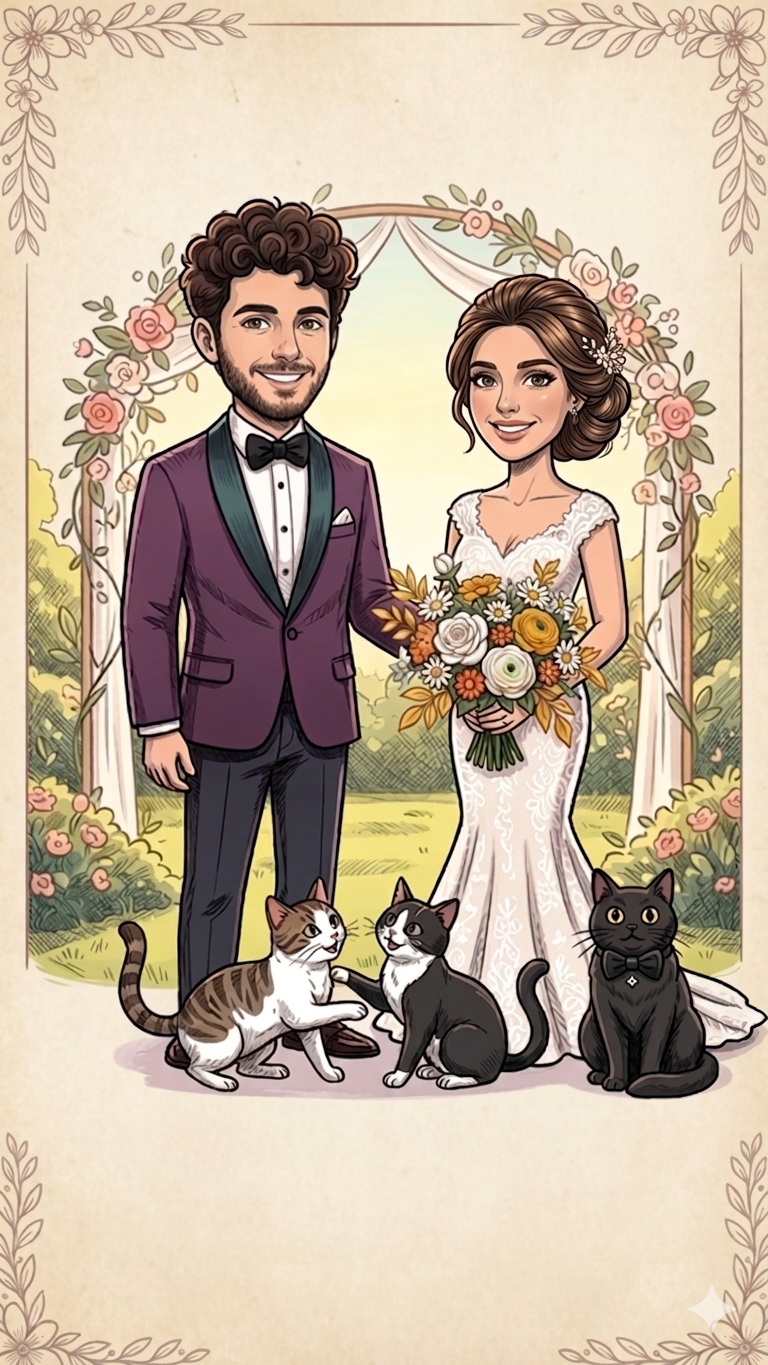
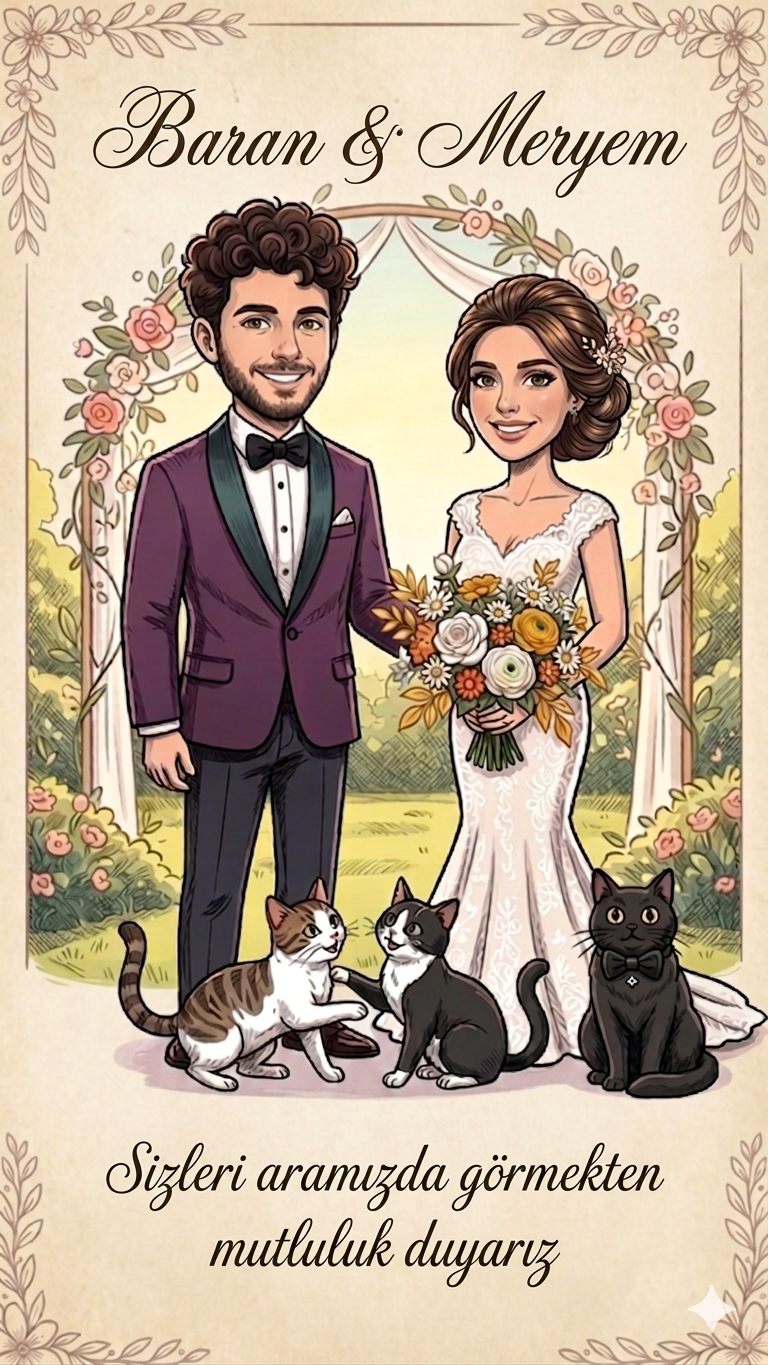
fix: image

diff --git a/index.html b/index.html
@@ -135,7 +135,7 @@
 
     <div class="maps">
         <details class="map-column">
-            <summary class="map-trigger">Nışan: 27 Haziran 19.00</summary>
+            <summary class="map-trigger">Nişan: 27 Haziran 19.00</summary>
             <div class="map-frame">
                 <iframe
                     title="Şelale Düğün & Davet Salonu"
